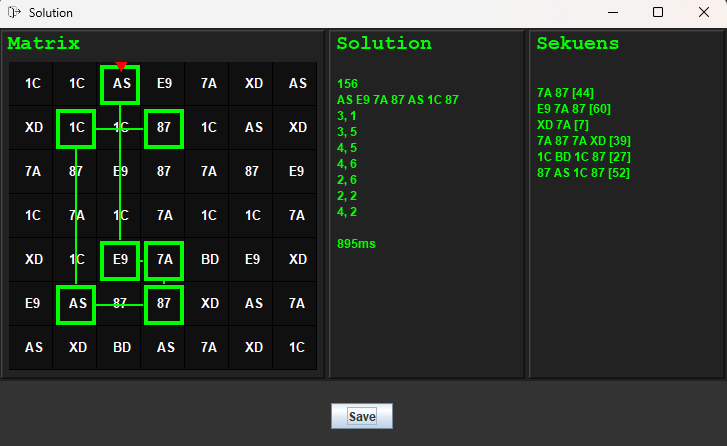
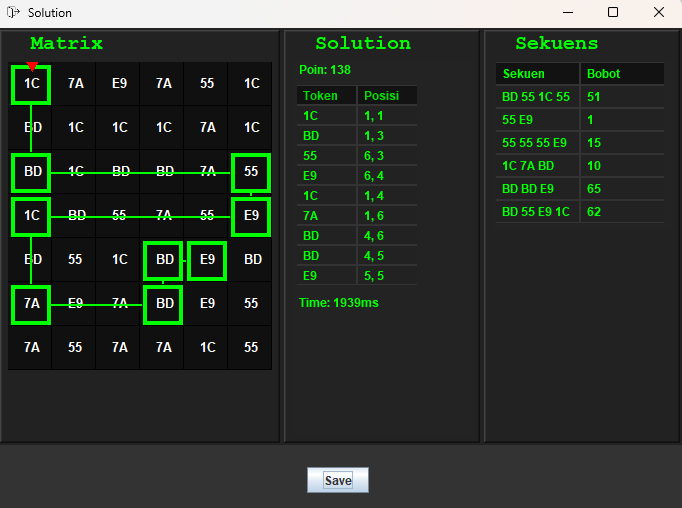
update readme info

diff --git a/README.md b/README.md
@@ -28,26 +28,50 @@ Proyek ini adalah membuat suatu algoritma dengan pendekatan *brute force* untuk 
 │   │   ├── Sequence.class
 │   │   └── Visited.class
 │   ├── operations
-│   │   └── Game.class
-│   └── Main.class
+│   │   ├── Bordered.class
+│   │   ├── Game.class
+│   │   ├── MatrixSolution.class
+│   │   ├── Sekuens.class
+│   │   ├── Solution.class
+│   │   └── Token.class 
+│   ├── GameGUI.class
+│   ├── GameGUI$1.class
+│   ├── GameGUI$2.class
+│   ├── GameGUI$3.class
+│   ├── GameGUI$4.class
+│   ├── GameGUI$5.class
+│   ├── IntegerInput.class
+│   ├── Main.class
+│   ├── SolutionDisplay.class
+│   └── SolutionDisplay$1.class
 ├── doc
 ├── src
 │   ├── models
 │   │   ├── Buffer.java
 │   │   ├── Matrix.java
-│   │   ├── Sequence.class
-│   │   └── Visited.class
+│   │   ├── Sequence.java
+│   │   └── Visited.java
 │   ├── operations
-│   │   └── Game.java
-│   └── Main.java
+│   │   ├── Bordered.java
+│   │   ├── Game.java
+│   │   ├── MatrixSolution.java
+│   │   ├── Sekuens.java
+│   │   ├── Solution.java
+│   │   └── Token.java 
+│   ├── GameGUI.java
+│   ├── icon.png
+│   ├── IntegerInput.java
+│   ├── logo.png
+│   ├── Main.java
+│   └── SolutionDisplay.java
 └── test
-    ├── input                  # Semua masukan berupa file disimpan di folder ini
-    └── output                 # Hasil penyimpanan solusi disimpan di folder ini
+    ├── input                  # Default input folder
+    └── output                 # Default save folder
 ```
 
 ## Menjalankan Program dan Requirement
 
-Untuk menjalankan program dibutuhkan java versi 20+. (Soalnya waktu coba run di *ubuntu* pakai yang versi 19 gabisa, hehe)
+Untuk menjalankan program dibutuhkan java versi 20+.
 
 Untuk menjalankan program, pada *root directory* pindah ke folder bin dengan command cd bin
 ```
@@ -62,6 +86,8 @@ Program akan berjalan dengan tampilan awal seperti ini
 <p align="center">
 <img src="./ss-program.png" alt="Preview" width="300"/>
 </p>
+<br>
+Tampilan hasil pemrosesan program dapat dilihat pada gambar di bawah ini.
 <p align="center">
 <br>
 <br>
@@ -70,6 +96,6 @@ Program akan berjalan dengan tampilan awal seperti ini
 <br>
 <br>
 
-Kemudian, pada pilihan masukan berupa file, file berekstensi ```.txt``` harus disimpan di dalam folder ```test/input```. Input saat diminta  ```Masukkan source file: ``` hanya nama file saja (diikuti ekstensi ```.txt```). Contohnya ```testCase1.txt```.
+Kemudian, pada pilihan masukan berupa file, hanya file berekstensi ```.txt``` yang dapat diproses oleh program.
 
 > Penting untuk diperhatikan, file dengan ekstensi ```.txt``` harus memuat data sesuai format. Data khususnya yang akan direpresentasikan sebagai ```integer``` tidak boleh memuat karakter apapun selain karakter numerik baik di awal, di tengah, maupun di akhir baris (kecuali pada bagian dimensi matriks).
